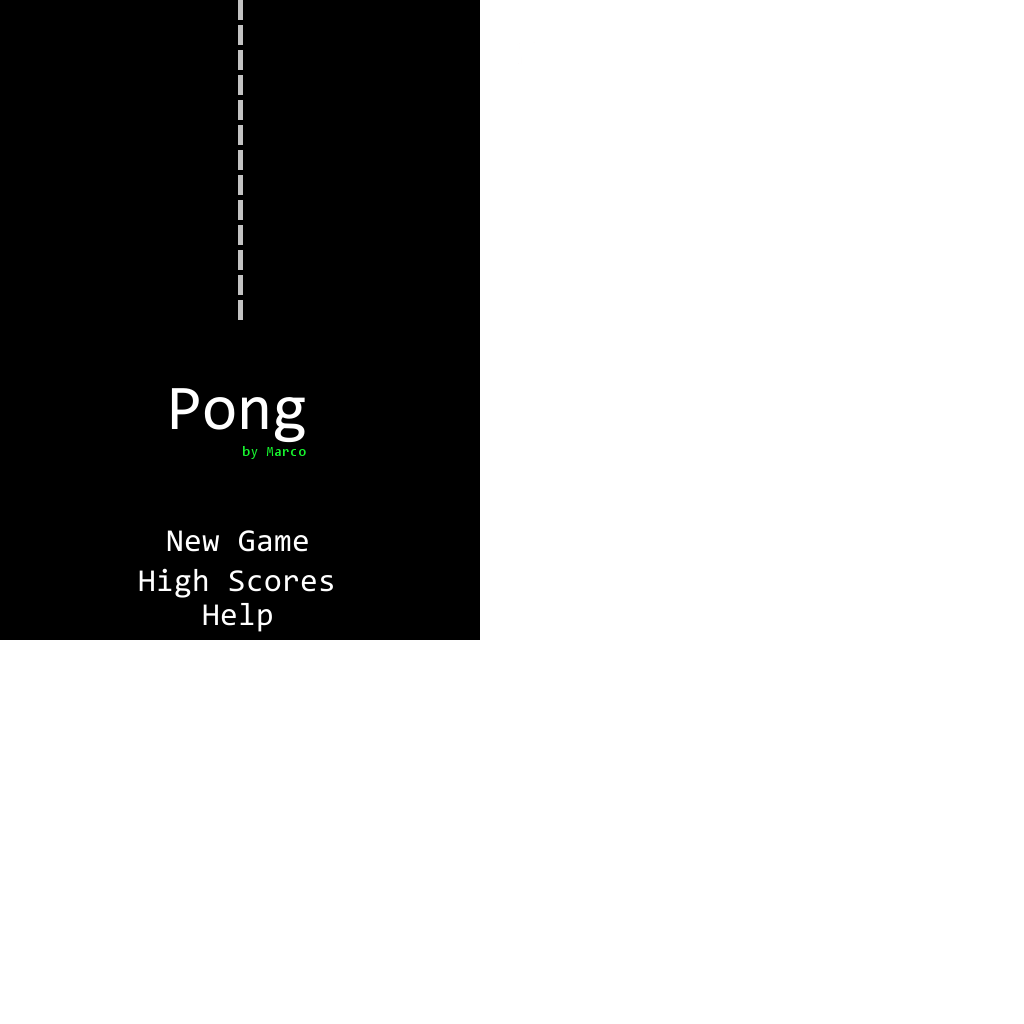
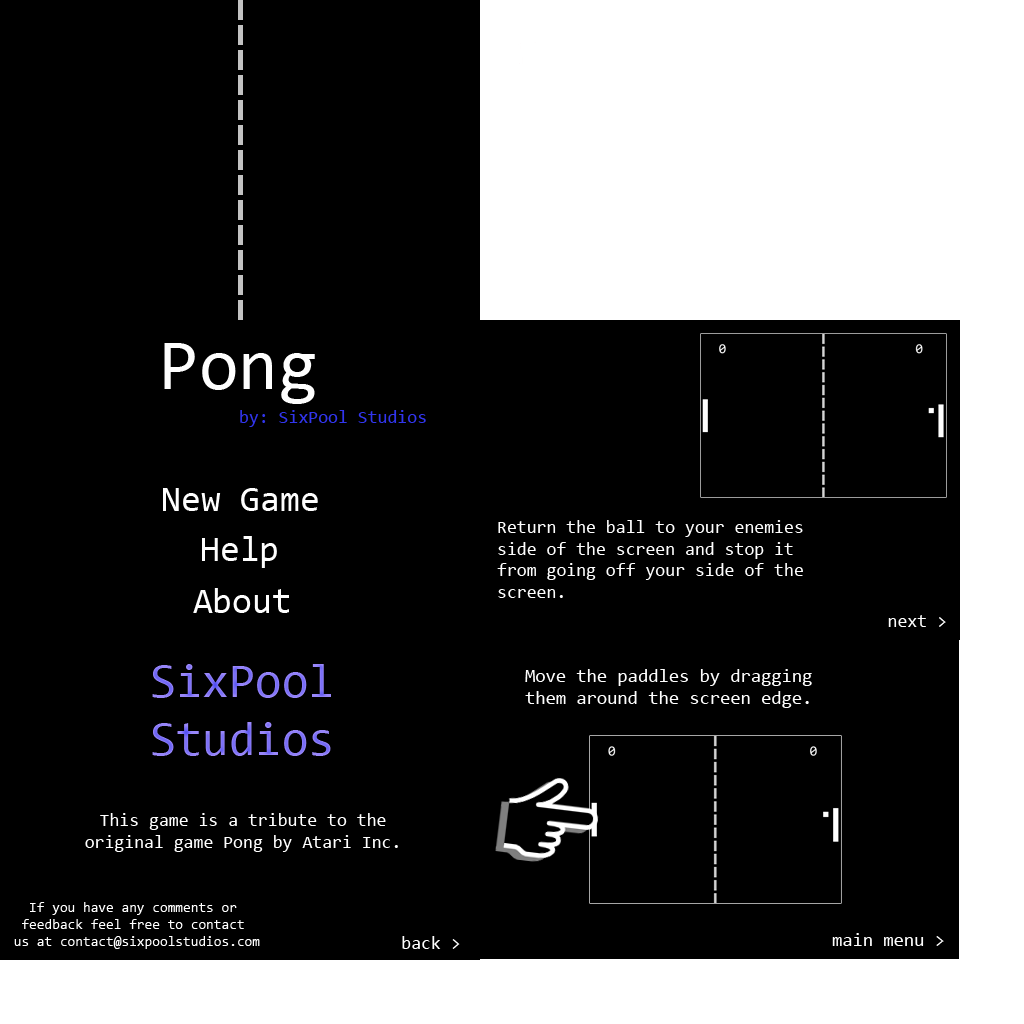
refreshed the graphics and added the missing screens (about, help)

diff --git a/src/com/pong/Help1Screen.java b/src/com/pong/Help1Screen.java
@@ -8,24 +8,19 @@ import com.badlogic.gdx.graphics.g2d.SpriteBatch;
 import com.badlogic.gdx.math.Rectangle;
 import com.badlogic.gdx.math.Vector3;
 
-public class MainMenuScreen extends Screen{
+public class Help1Screen extends Screen{
 	OrthographicCamera guiCam;
 	SpriteBatch batcher;
-	Rectangle newgameBounds;
-	Rectangle aboutBounds;
-	Rectangle helpBounds;
+	Rectangle nextBounds;
 	Vector3 touchPoint;
 	
-	public MainMenuScreen(Game game){
+	public Help1Screen(Game game){
 		super(game);
 		guiCam = new OrthographicCamera(480,320);
 		guiCam.position.set(480 / 2, 320 / 2, 0);
 		batcher = new SpriteBatch();
-		newgameBounds = new Rectangle(157, 125, 170, 34);
-		helpBounds = new Rectangle(157, 75, 168, 36);
-		aboutBounds = new Rectangle(157, 23, 161, 39);	
+		nextBounds = new Rectangle(402, 10, 69, 21);
 		touchPoint = new Vector3();
-		
 	}
 
 	@Override
@@ -33,19 +28,9 @@ public class MainMenuScreen extends Screen{
 		if (Gdx.input.justTouched()){
 			guiCam.unproject(touchPoint.set(Gdx.input.getX(), Gdx.input.getY(), 0));
 			
-			if(OverlapTester.pointInRectangle(newgameBounds, touchPoint.x, touchPoint.y)){
+			if(OverlapTester.pointInRectangle(nextBounds, touchPoint.x, touchPoint.y)){
 				Assets.playSound(Assets.bounceSound);
-				game.setScreen(new GameScreen(game));
-				return;
-			}
-			if (OverlapTester.pointInRectangle(helpBounds, touchPoint.x, touchPoint.y)){
-				Assets.playSound(Assets.bounceSound);
-				game.setScreen(new Help1Screen(game));
-				return;
-			}
-			if (OverlapTester.pointInRectangle(aboutBounds, touchPoint.x, touchPoint.y)){
-				Assets.playSound(Assets.bounceSound);
-				game.setScreen(new AboutScreen(game));
+				game.setScreen(new Help2Screen(game));
 				return;
 			}
 		}
@@ -57,27 +42,29 @@ public class MainMenuScreen extends Screen{
 		gl.glClearColor(1, 0, 0, 1);
 		gl.glClear(GL10.GL_COLOR_BUFFER_BIT);
 		guiCam.update();
-		batcher.setProjectionMatrix(guiCam.combined);
-		
+		batcher.setProjectionMatrix(guiCam.combined);		
 		batcher.disableBlending();
 		batcher.begin();
-		batcher.draw(Assets.mainMenuScreenRegion, 0, 0, 480, 320);
-		batcher.end();
+		batcher.draw(Assets.help1ScreenRegion, 0, 0, 480, 320);
+		batcher.end();		
 	}
 
 	@Override
 	public void pause() {
-	
+		// TODO Auto-generated method stub
+		
 	}
 
 	@Override
 	public void resume() {
-	
+		// TODO Auto-generated method stub
+		
 	}
 
 	@Override
 	public void dispose() {
-	
+		// TODO Auto-generated method stub
+		
 	}
 
 }

diff --git a/src/com/pong/AboutScreen.java b/src/com/pong/AboutScreen.java
@@ -8,24 +8,19 @@ import com.badlogic.gdx.graphics.g2d.SpriteBatch;
 import com.badlogic.gdx.math.Rectangle;
 import com.badlogic.gdx.math.Vector3;
 
-public class MainMenuScreen extends Screen{
+public class AboutScreen extends Screen{
 	OrthographicCamera guiCam;
 	SpriteBatch batcher;
-	Rectangle newgameBounds;
-	Rectangle aboutBounds;
-	Rectangle helpBounds;
+	Rectangle backBounds;
 	Vector3 touchPoint;
 	
-	public MainMenuScreen(Game game){
+	public AboutScreen(Game game){
 		super(game);
 		guiCam = new OrthographicCamera(480,320);
 		guiCam.position.set(480 / 2, 320 / 2, 0);
 		batcher = new SpriteBatch();
-		newgameBounds = new Rectangle(157, 125, 170, 34);
-		helpBounds = new Rectangle(157, 75, 168, 36);
-		aboutBounds = new Rectangle(157, 23, 161, 39);	
+		backBounds = new Rectangle(399, 9, 66, 21);
 		touchPoint = new Vector3();
-		
 	}
 
 	@Override
@@ -33,19 +28,9 @@ public class MainMenuScreen extends Screen{
 		if (Gdx.input.justTouched()){
 			guiCam.unproject(touchPoint.set(Gdx.input.getX(), Gdx.input.getY(), 0));
 			
-			if(OverlapTester.pointInRectangle(newgameBounds, touchPoint.x, touchPoint.y)){
+			if(OverlapTester.pointInRectangle(backBounds, touchPoint.x, touchPoint.y)){
 				Assets.playSound(Assets.bounceSound);
-				game.setScreen(new GameScreen(game));
-				return;
-			}
-			if (OverlapTester.pointInRectangle(helpBounds, touchPoint.x, touchPoint.y)){
-				Assets.playSound(Assets.bounceSound);
-				game.setScreen(new Help1Screen(game));
-				return;
-			}
-			if (OverlapTester.pointInRectangle(aboutBounds, touchPoint.x, touchPoint.y)){
-				Assets.playSound(Assets.bounceSound);
-				game.setScreen(new AboutScreen(game));
+				game.setScreen(new MainMenuScreen(game));
 				return;
 			}
 		}
@@ -57,17 +42,16 @@ public class MainMenuScreen extends Screen{
 		gl.glClearColor(1, 0, 0, 1);
 		gl.glClear(GL10.GL_COLOR_BUFFER_BIT);
 		guiCam.update();
-		batcher.setProjectionMatrix(guiCam.combined);
-		
+		batcher.setProjectionMatrix(guiCam.combined);	
 		batcher.disableBlending();
 		batcher.begin();
-		batcher.draw(Assets.mainMenuScreenRegion, 0, 0, 480, 320);
-		batcher.end();
+		batcher.draw(Assets.aboutScreenRegion, 0, 0, 480, 320);
+		batcher.end();		
 	}
 
 	@Override
 	public void pause() {
-	
+
 	}
 
 	@Override
@@ -77,7 +61,7 @@ public class MainMenuScreen extends Screen{
 
 	@Override
 	public void dispose() {
-	
+
 	}
 
 }

diff --git a/src/com/pong/Help2Screen.java b/src/com/pong/Help2Screen.java
@@ -8,24 +8,19 @@ import com.badlogic.gdx.graphics.g2d.SpriteBatch;
 import com.badlogic.gdx.math.Rectangle;
 import com.badlogic.gdx.math.Vector3;
 
-public class MainMenuScreen extends Screen{
+public class Help2Screen extends Screen{
 	OrthographicCamera guiCam;
 	SpriteBatch batcher;
-	Rectangle newgameBounds;
-	Rectangle aboutBounds;
-	Rectangle helpBounds;
+	Rectangle backBounds;
 	Vector3 touchPoint;
 	
-	public MainMenuScreen(Game game){
+	public Help2Screen(Game game){
 		super(game);
 		guiCam = new OrthographicCamera(480,320);
 		guiCam.position.set(480 / 2, 320 / 2, 0);
 		batcher = new SpriteBatch();
-		newgameBounds = new Rectangle(157, 125, 170, 34);
-		helpBounds = new Rectangle(157, 75, 168, 36);
-		aboutBounds = new Rectangle(157, 23, 161, 39);	
+		backBounds = new Rectangle(350, 10, 121, 19);
 		touchPoint = new Vector3();
-		
 	}
 
 	@Override
@@ -33,22 +28,12 @@ public class MainMenuScreen extends Screen{
 		if (Gdx.input.justTouched()){
 			guiCam.unproject(touchPoint.set(Gdx.input.getX(), Gdx.input.getY(), 0));
 			
-			if(OverlapTester.pointInRectangle(newgameBounds, touchPoint.x, touchPoint.y)){
+			if(OverlapTester.pointInRectangle(backBounds, touchPoint.x, touchPoint.y)){
 				Assets.playSound(Assets.bounceSound);
-				game.setScreen(new GameScreen(game));
+				game.setScreen(new MainMenuScreen(game));
 				return;
 			}
-			if (OverlapTester.pointInRectangle(helpBounds, touchPoint.x, touchPoint.y)){
-				Assets.playSound(Assets.bounceSound);
-				game.setScreen(new Help1Screen(game));
-				return;
-			}
-			if (OverlapTester.pointInRectangle(aboutBounds, touchPoint.x, touchPoint.y)){
-				Assets.playSound(Assets.bounceSound);
-				game.setScreen(new AboutScreen(game));
-				return;
-			}
-		}
+		}	
 	}
 
 	@Override
@@ -61,23 +46,25 @@ public class MainMenuScreen extends Screen{
 		
 		batcher.disableBlending();
 		batcher.begin();
-		batcher.draw(Assets.mainMenuScreenRegion, 0, 0, 480, 320);
-		batcher.end();
+		batcher.draw(Assets.help2ScreenRegion, 0, 0, 480, 320);
+		batcher.end();		
 	}
 
 	@Override
 	public void pause() {
-	
+		// TODO Auto-generated method stub
+		
 	}
 
 	@Override
 	public void resume() {
-	
+		// TODO Auto-generated method stub
+		
 	}
 
 	@Override
 	public void dispose() {
-	
+		// TODO Auto-generated method stub
+		
 	}
-
 }

diff --git a/src/com/pong/Assets.java b/src/com/pong/Assets.java
@@ -13,11 +13,13 @@ public class Assets {
 	public static Texture textureatlas;
 	public static TextureRegion gameScreenBackgroundRegion;
 	public static TextureRegion mainMenuScreenRegion;
+	public static TextureRegion help1ScreenRegion;
+	public static TextureRegion help2ScreenRegion;
+	public static TextureRegion aboutScreenRegion;
 	public static TextureRegion paddle;
 	public static TextureRegion ball;
 	public static BitmapFont font;
 	
-	public static Music music;
 	public static Sound bounceSound;
 	
 	public static Texture loadTexture(String file){
@@ -28,15 +30,14 @@ public class Assets {
 		textureatlas = loadTexture("data/screen_atlas.png");
 		gameScreenBackgroundRegion = new TextureRegion(textureatlas, 0,0,480,320);
 		mainMenuScreenRegion = new TextureRegion(textureatlas, 0,320,480,320);
+		help1ScreenRegion = new TextureRegion(textureatlas, 480, 320, 480, 320);
+		help2ScreenRegion = new TextureRegion(textureatlas, 480, 640, 480, 320);
+		aboutScreenRegion = new TextureRegion(textureatlas, 0, 640, 480, 320);
 		paddle = new TextureRegion(textureatlas, 480,0,10,64);
 		ball = new TextureRegion(textureatlas, 526,46,10,10);
 		
 		font = new BitmapFont(Gdx.files.internal("data/font.fnt"), Gdx.files.internal("data/font.png"), false);
 		
-		music = Gdx.audio.newMusic(Gdx.files.internal("data/loz-oc-remix.mp3"));
-		music.setLooping(true);
-		music.setVolume(0.5f);
-		music.play();
 		bounceSound = Gdx.audio.newSound(Gdx.files.internal("data/ball_bump.wav"));
 	}
 	

diff --git a/src/com/pong/GameScreen.java b/src/com/pong/GameScreen.java
@@ -76,11 +76,13 @@ public class GameScreen extends Screen{
 	
 	private void updateRunning (float deltaTime){
 		if (Gdx.app.getType() == Application.ApplicationType.Android){
-			if (Gdx.input.getX() < 480 / 2){
-				world.paddleP1.position.y = 32 - (Gdx.input.getY() / 10);
-			}
-			if (Gdx.input.getX() > 480 / 2){
-				world.paddleP2.position.y = 32 - (Gdx.input.getY() / 10);
+			while (Gdx.input.isTouched()){
+				for (int i = 0; i < 5; i++){
+					if (Gdx.input.getX(i) > Gdx.graphics.getWidth() / 2)
+						world.paddleP2.position.y = Gdx.input.getY(i);
+					if (Gdx.input.getX(i) < Gdx.graphics.getWidth() / 2)
+						world.paddleP1.position.y = Gdx.input.getY(i);
+				}
 			}
 			world.update(deltaTime, 0, 0);
 		}
